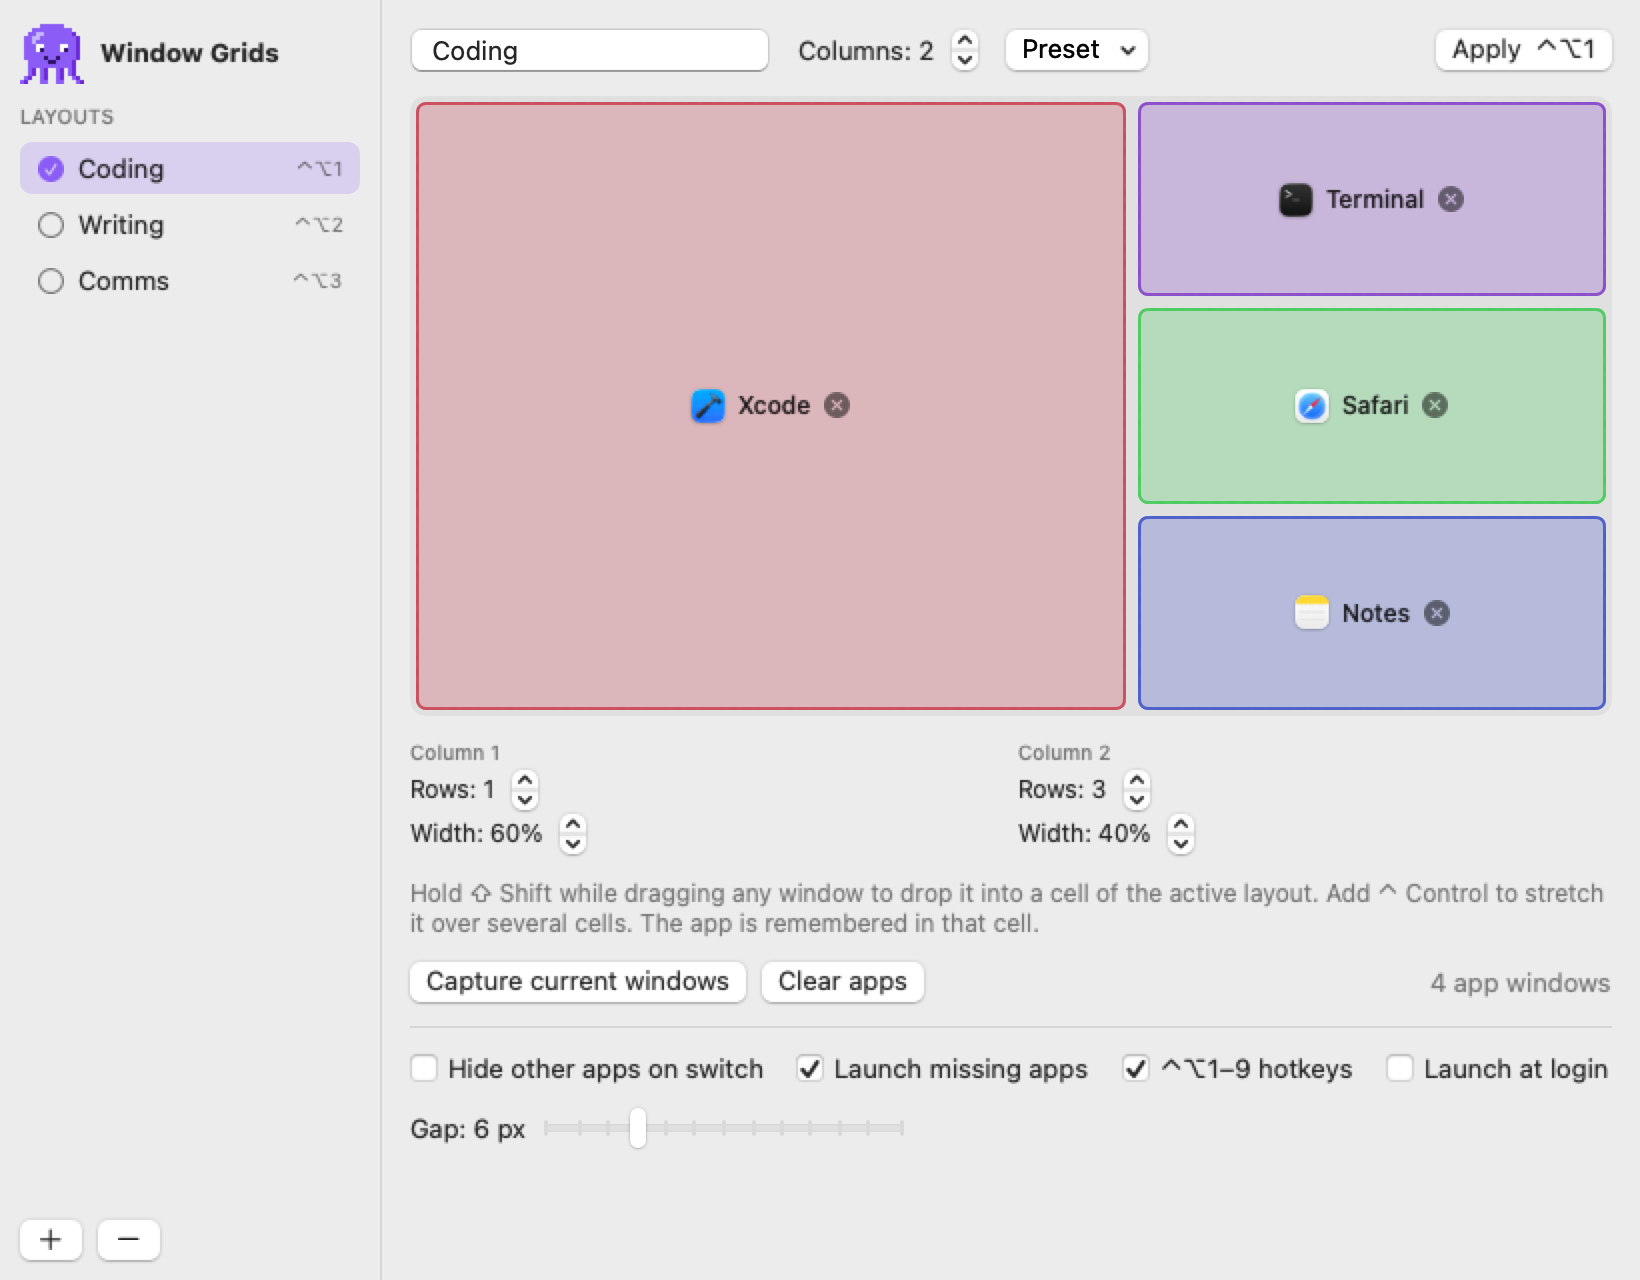
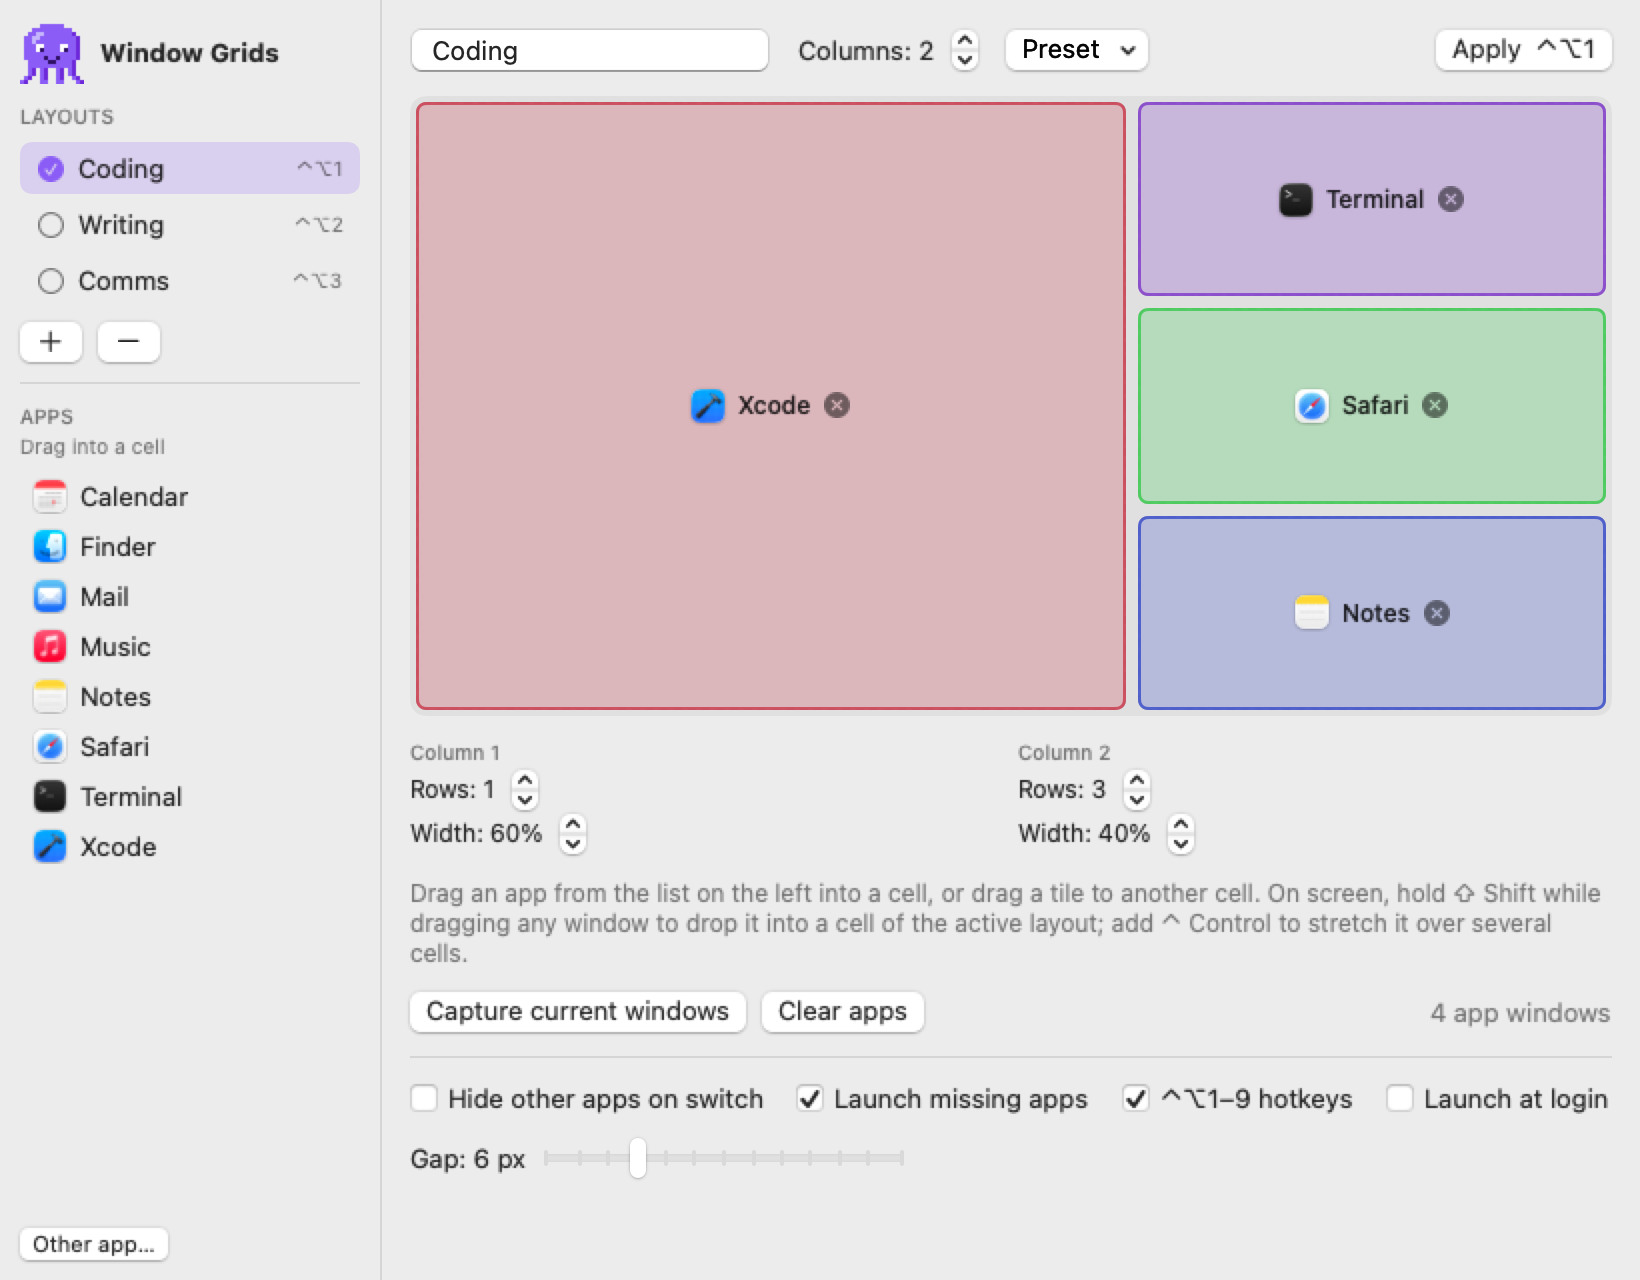
Drag apps into cells in the editor
The editor sidebar lists running apps (plus any picked by hand); drag
one onto a cell to assign it, or drag a tile to move it.

diff --git a/Sources/WindowGrids/EditorView.swift b/Sources/WindowGrids/EditorView.swift
@@ -1,10 +1,13 @@
 import ServiceManagement
 import SwiftUI
+import UniformTypeIdentifiers
 
 struct EditorView: View {
     @EnvironmentObject var controller: AppController
     @EnvironmentObject var store: Store
     @State private var selected: UUID?
+    /// Fixed app list for rendering screenshots; nil means the apps really running.
+    var demoApps: [AppRef]? = nil
 
     private var currentID: UUID? {
         if let selected, store.layout(selected) != nil { return selected }
@@ -53,7 +56,6 @@ struct EditorView: View {
                 .contentShape(Rectangle())
                 .onTapGesture { selected = l.id }
             }
-            Spacer()
             HStack {
                 Button {
                     selected = store.addLayout().id
@@ -66,6 +68,9 @@ struct EditorView: View {
                 } label: { Image(systemName: "minus") }
                 .disabled(store.layouts.count <= 1)
             }
+            .padding(.top, 6)
+            Divider().padding(.vertical, 8)
+            AppPalette(demoApps: demoApps)
         }
         .padding(10)
     }
@@ -108,8 +113,9 @@ private struct LayoutDetail: View {
             columnControls
 
             Text(
-                "Hold ⇧ Shift while dragging any window to drop it into a cell of the active layout. "
-                    + "Add ⌃ Control to stretch it over several cells. The app is remembered in that cell."
+                "Drag an app from the list on the left into a cell, or drag a tile to another cell. "
+                    + "On screen, hold ⇧ Shift while dragging any window to drop it into a cell of the active "
+                    + "layout; add ⌃ Control to stretch it over several cells."
             )
             .font(.callout).foregroundStyle(.secondary).fixedSize(horizontal: false, vertical: true)
 
@@ -214,8 +220,7 @@ private struct GridPreview: View {
                 RoundedRectangle(cornerRadius: 8).fill(Color.primary.opacity(0.06))
                 ForEach(layout.cells, id: \.self) { cell in
                     let r = rect(CellRange(cell), in: bounds)
-                    RoundedRectangle(cornerRadius: 5)
-                        .strokeBorder(Color.primary.opacity(0.25), style: StrokeStyle(lineWidth: 1, dash: [4, 3]))
+                    DropCell { items in drop(items, on: CellRange(cell)) }
                         .frame(width: r.width, height: r.height)
                         .offset(x: r.minX, y: r.minY)
                 }
@@ -224,11 +229,35 @@ private struct GridPreview: View {
                     AppTile(apps: group.items) { id in
                         layout.assignments.removeAll { $0.id == id }
                     }
+                    .dropDestination(for: String.self) { items, _ in drop(items, on: group.range) }
                     .frame(width: r.width, height: r.height)
                     .offset(x: r.minX, y: r.minY)
                 }
             }
         }
+    }
+
+    /// Handles a drop from the app list ("app:<bundle id>|<name>") or of an existing
+    /// tile ("move:<assignment id>").
+    private func drop(_ items: [String], on range: CellRange) -> Bool {
+        guard let item = items.first else { return false }
+        var l = layout
+        if item.hasPrefix(DragPayload.move), let id = UUID(uuidString: String(item.dropFirst(DragPayload.move.count))),
+            let i = l.assignments.firstIndex(where: { $0.id == id })
+        {
+            l.assignments[i].range = range
+        } else if item.hasPrefix(DragPayload.app) {
+            let parts = item.dropFirst(DragPayload.app.count).split(separator: "|", maxSplits: 1)
+            guard let bundleID = parts.first.map(String.init), !bundleID.isEmpty else { return false }
+            let name = parts.count > 1 ? String(parts[1]) : bundleID
+            guard !l.assignments.contains(where: { $0.bundleID == bundleID && $0.range == range })
+            else { return true }
+            l.assignments.append(Assignment(bundleID: bundleID, appName: name, range: range))
+        } else {
+            return false
+        }
+        layout = l
+        return true
     }
 
     /// Assignments sharing the same cells are shown stacked in one tile.
@@ -261,7 +290,7 @@ private struct AppTile: View {
                 VStack(spacing: 4) {
                     ForEach(apps) { a in
                         HStack(spacing: 5) {
-                            if let icon = Self.icon(a.bundleID) {
+                            if let icon = AppRef.icon(a.bundleID) {
                                 Image(nsImage: icon).resizable().frame(width: 20, height: 20)
                             }
                             Text(a.appName + (a.screen > 0 ? "  (display \(a.screen + 1))" : ""))
@@ -274,6 +303,7 @@ private struct AppTile: View {
                             .buttonStyle(.plain)
                             .help("Remove from this layout")
                         }
+                        .draggable(DragPayload.move + a.id.uuidString)
                     }
                 }
                 .padding(4)
@@ -286,9 +316,110 @@ private struct AppTile: View {
         return Color(hue: Double(h) / 360, saturation: 0.65, brightness: 0.8)
     }
 
-    private static func icon(_ bundleID: String) -> NSImage? {
+}
+
+enum DragPayload {
+    static let app = "app:"
+    static let move = "move:"
+}
+
+struct AppRef: Identifiable, Hashable {
+    let bundleID: String
+    let name: String
+    var id: String { bundleID }
+
+    static func icon(_ bundleID: String) -> NSImage? {
         NSWorkspace.shared.urlForApplication(withBundleIdentifier: bundleID).map {
             NSWorkspace.shared.icon(forFile: $0.path)
+        }
+    }
+
+    static func running() -> [AppRef] {
+        let me = Bundle.main.bundleIdentifier
+        var seen = Set<String>()
+        return NSWorkspace.shared.runningApplications
+            .filter { $0.activationPolicy == .regular }
+            .compactMap { app -> AppRef? in
+                guard let id = app.bundleIdentifier, id != me, seen.insert(id).inserted else { return nil }
+                return AppRef(bundleID: id, name: app.localizedName ?? id)
+            }
+            .sorted { $0.name.localizedCaseInsensitiveCompare($1.name) == .orderedAscending }
+    }
+}
+
+/// An empty grid cell: a dashed outline that lights up while something is dragged over it.
+private struct DropCell: View {
+    let onDrop: ([String]) -> Bool
+    @State private var targeted = false
+
+    var body: some View {
+        RoundedRectangle(cornerRadius: 5)
+            .fill(targeted ? Mascot.tint.opacity(0.3) : Color.primary.opacity(0.001))
+            .overlay(
+                RoundedRectangle(cornerRadius: 5)
+                    .strokeBorder(
+                        targeted ? Mascot.tint : Color.primary.opacity(0.25),
+                        style: StrokeStyle(lineWidth: targeted ? 2 : 1, dash: targeted ? [] : [4, 3]))
+            )
+            .dropDestination(for: String.self) { items, _ in onDrop(items) } isTargeted: { targeted = $0 }
+    }
+}
+
+/// Apps that can be dragged into a cell: everything running, plus any picked by hand.
+private struct AppPalette: View {
+    let demoApps: [AppRef]?
+    @State private var running: [AppRef] = []
+    @State private var extra: [AppRef] = []
+
+    private var apps: [AppRef] {
+        let base = demoApps ?? running
+        return base + extra.filter { e in !base.contains { $0.bundleID == e.bundleID } }
+    }
+
+    var body: some View {
+        let center = NSWorkspace.shared.notificationCenter
+        VStack(alignment: .leading, spacing: 2) {
+            Text("APPS").font(.caption.bold()).foregroundStyle(.secondary)
+            Text("Drag into a cell").font(.caption).foregroundStyle(.secondary).padding(.bottom, 4)
+            ScrollView {
+                VStack(alignment: .leading, spacing: 1) {
+                    ForEach(apps) { app in
+                        HStack(spacing: 6) {
+                            if let icon = AppRef.icon(app.bundleID) {
+                                Image(nsImage: icon).resizable().frame(width: 18, height: 18)
+                            }
+                            Text(app.name).lineLimit(1)
+                            Spacer(minLength: 0)
+                        }
+                        .padding(.vertical, 3).padding(.horizontal, 6)
+                        .contentShape(Rectangle())
+                        .draggable(DragPayload.app + app.bundleID + "|" + app.name)
+                    }
+                }
+            }
+            Button("Other app…", action: pick).controlSize(.small).padding(.top, 4)
+        }
+        .onAppear { running = AppRef.running() }
+        .onReceive(center.publisher(for: NSWorkspace.didLaunchApplicationNotification)) { _ in
+            running = AppRef.running()
+        }
+        .onReceive(center.publisher(for: NSWorkspace.didTerminateApplicationNotification)) { _ in
+            running = AppRef.running()
+        }
+    }
+
+    /// Adds an app that is not running to the list.
+    private func pick() {
+        let panel = NSOpenPanel()
+        panel.directoryURL = URL(fileURLWithPath: "/Applications")
+        panel.allowedContentTypes = [.application]
+        panel.allowsMultipleSelection = true
+        guard panel.runModal() == .OK else { return }
+        for url in panel.urls {
+            guard let id = Bundle(url: url)?.bundleIdentifier, !extra.contains(where: { $0.bundleID == id })
+            else { continue }
+            extra.append(AppRef(bundleID: id, name: FileManager.default.displayName(atPath: url.path)
+                .replacingOccurrences(of: ".app", with: "")))
         }
     }
 }

diff --git a/Sources/WindowGrids/Render.swift b/Sources/WindowGrids/Render.swift
@@ -29,7 +29,12 @@ enum Render {
         _ = NSApplication.shared
         let controller = AppController(store: demoStore())
         controller.trusted = true
-        let view = EditorView().environmentObject(controller).environmentObject(controller.store)
+        let apps = [
+            ("com.apple.iCal", "Calendar"), ("com.apple.finder", "Finder"), ("com.apple.mail", "Mail"),
+            ("com.apple.Music", "Music"), ("com.apple.Notes", "Notes"), ("com.apple.Safari", "Safari"),
+            ("com.apple.Terminal", "Terminal"), ("com.apple.dt.Xcode", "Xcode"),
+        ].map { AppRef(bundleID: $0.0, name: $0.1) }
+        let view = EditorView(demoApps: apps).environmentObject(controller).environmentObject(controller.store)
             .tint(Mascot.tint)
             .frame(width: 820, height: 640)
             .background(Color(nsColor: .windowBackgroundColor))

diff --git a/README.md b/README.md
@@ -12,6 +12,7 @@ A small macOS menu bar app that arranges app windows on a grid, remembers which 
 
 - **Layouts**: a layout is a named grid plus the apps placed in its cells. Make as many as you like in the editor (menu bar icon → *Edit Layouts…*).
 - **Flexible grids**: a grid is a row of columns, and every column has its own width and its own number of rows. One half-width column next to a column of three rows, a wide main area with a narrow stack beside it, or a plain 3 × 2 are all the same thing with different numbers. The *Preset* menu has the common ones.
+- **Drag apps into cells in the editor**: the editor lists the running apps (and any you add with *Other app…*). Drag one onto a cell to place it there, or drag a tile to move it to another cell. Press *Apply* to arrange the real windows.
 - **Drag a window into the grid**: hold **⇧ Shift** while dragging any window. The grid of the active layout appears; drop on a cell and the window snaps to it. The app is remembered in that cell. Add **⌃ Control** while dragging to stretch the window over several cells.
 - **Switch layouts**: **⌃⌥1 … ⌃⌥9** or the menu bar menu. Every app in the layout moves to its cells; apps that are not running are launched. Optionally, apps not in the layout are hidden.
 - **Capture**: *Capture current windows* snaps every visible window to its nearest cells and stores the result in the layout.
